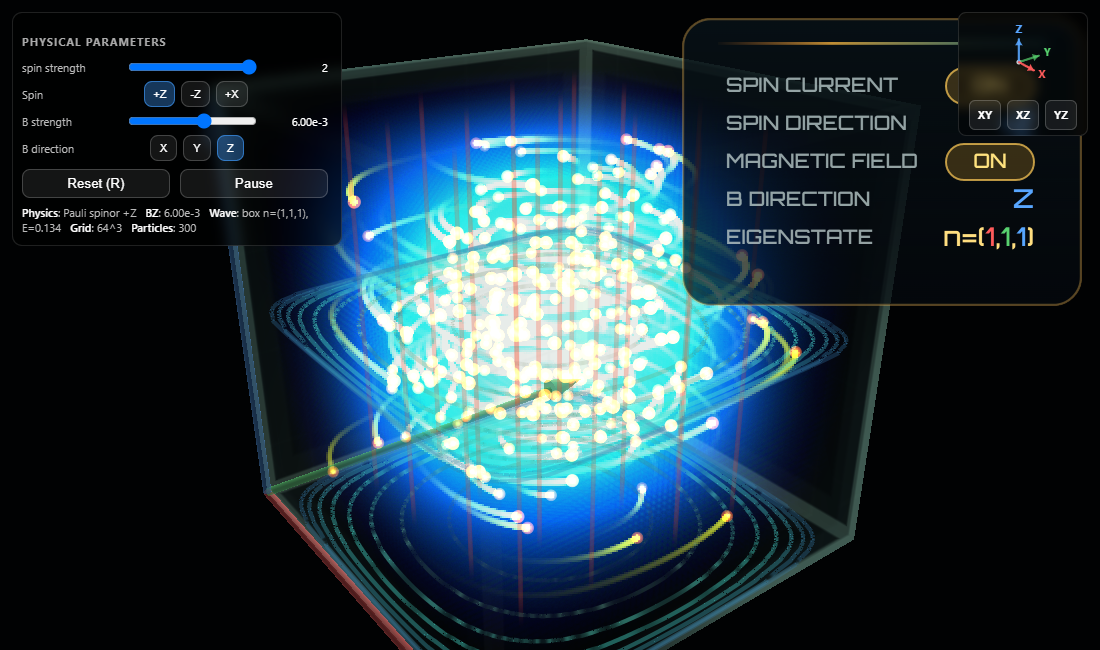
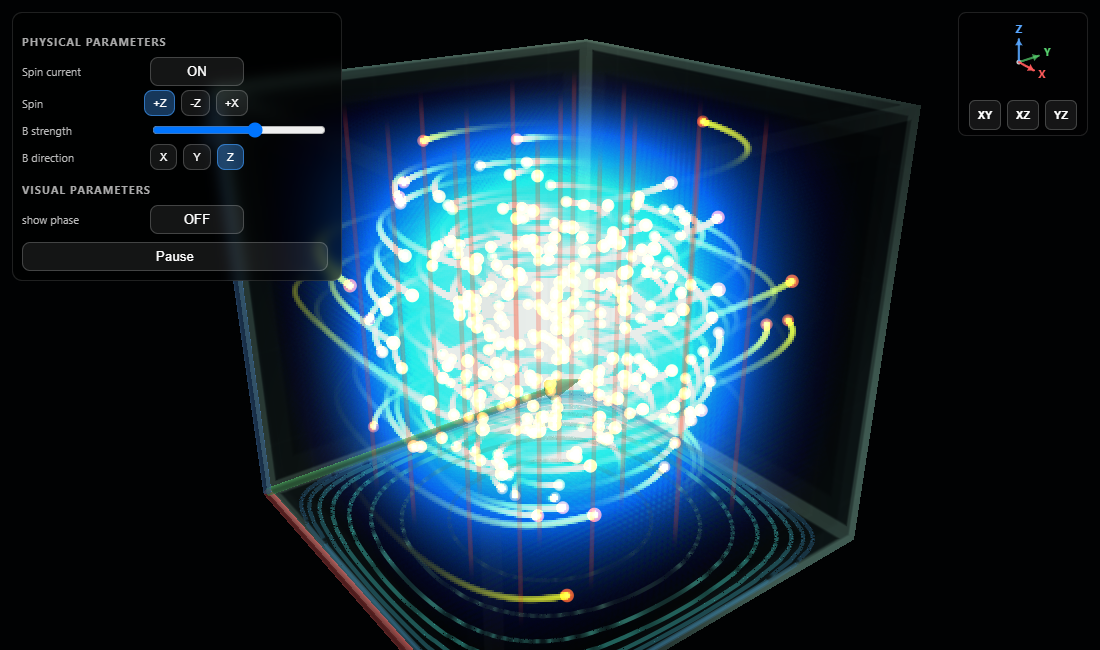
almost ready

diff --git a/eigenstates-in-3d-box/main.js b/eigenstates-in-3d-box/main.js
@@ -54,7 +54,7 @@ const params = {
   mass: 1.0,
   dt: 0.01,
 
-  nParticles: 500,
+  nParticles: 100,
   rhoMin: 1e-6,
   velClamp: 80.0,
   spinS: 2.,
@@ -89,8 +89,6 @@ const params = {
   trailWidth: 14.0,
   trailBlendMode: 2,
   densityScale: 0.5,
-
-  paletteId: 4,
 };
 
 const urlParams = new URLSearchParams(window.location.search);
@@ -105,7 +103,7 @@ const embeddedBasePreset = {
   showParticles: 1,
   showTrail: 1,
   showProjectedContour: 1,
-  showLevelsets: 1,
+  showLevelsets: 0,
   showFieldLines: 0,
 };
 
@@ -118,8 +116,9 @@ const PRESETS = {
       eigenNz: 1,
       bFieldStrength: 0,
       spinS: 2,
+      showTrail: 1,
     },
-    adjustable: ["nParticles", "showCloud", "showParticles", "showTrail"],
+    adjustable: ["spinS", "nParticles","showPhase",],
   },
   excited: {
     params: {
@@ -127,16 +126,14 @@ const PRESETS = {
       eigenNx: 2,
       eigenNy: 1,
       eigenNz: 2,
+      showPhase: 1,
       bFieldStrength: 0,
       spinS: 2,
-      showTrail: 0,
     },
     adjustable: [
+      "spinS",
       "eigenQuantumNumbers",
-      "showCloud",
       "showPhase",
-      "showProjectedContour",
-      "showLevelsets",
     ],
   },
   magnetic: {
@@ -145,13 +142,14 @@ const PRESETS = {
       eigenNx: 1,
       eigenNy: 1,
       eigenNz: 1,
-      bFieldStrength: 0.006,
-      bFieldAxis: 2,
+      bFieldStrength: 0.01,
+      bFieldAxis: 0,
       initialSpin: 0,
       spinS: 2,
+      showPhase: 1,
       showFieldLines: 1,
     },
-    adjustable: ["spinS", "initialSpin", "bFieldStrength", "bFieldAxis"],
+    adjustable: ["spinS", "initialSpin", "bFieldStrength", "bFieldAxis","eigenQuantumNumbers","showPhase",],
   },
 };
 
@@ -162,20 +160,6 @@ if (presetDefinition) Object.assign(params, presetDefinition.params);
 function isControlFixed(key) {
   return Boolean(presetDefinition) && !adjustableControls.has(key);
 }
-
-const PALETTE_NAMES = [
-  "Nebula",
-  "Synthwave",
-  "Viridis-ish",
-  "Inferno-ish",
-  "Ice",
-  "Plasma Drift",
-  "Arctic Aurora",
-  "Solar Flare",
-  "Cosmic Dust",
-  "Neon Noir",
-  "Pastel Mirage"
-];
 
 const GUIDING_MODE_NAMES = [
   "Pauli spinor"
@@ -215,7 +199,7 @@ const INFO_OVERLAY_SCALE = 2;
 const INFO_OVERLAY_TEXTURE_WIDTH = INFO_OVERLAY_WIDTH_CSS * INFO_OVERLAY_SCALE;
 const INFO_OVERLAY_TEXTURE_HEIGHT = INFO_OVERLAY_HEIGHT_CSS * INFO_OVERLAY_SCALE;
 const INFO_OVERLAY_MARGIN_CSS = 18;
-const DRAW_INFO_OVERLAY_IN_WEBGPU = !isEmbedded || window.innerWidth >= 760;
+const DRAW_INFO_OVERLAY_IN_WEBGPU = !isEmbedded;
 
 let paused = false;
 let redrawPending = true;
@@ -283,6 +267,7 @@ function addSlider(key, label, min, max, step, onChange = null) {
   const val = document.createElement("div");
   val.className = "val";
   val.textContent = fmt(params[key]);
+  if (key === "bFieldStrength") val.style.display = "none";
 
   input.addEventListener("input", () => {
     const v = parseFloat(input.value);
@@ -326,6 +311,40 @@ function addToggleInt(key, label, onChange = null) {
   row.appendChild(btn);
   row.appendChild(val);
   controls.appendChild(row);
+}
+
+function addSpinCurrentToggle() {
+  if (isControlFixed("spinS")) return;
+  const row = document.createElement("div");
+  row.className = "row";
+
+  const lab = document.createElement("label");
+  lab.textContent = "Spin current";
+
+  const btn = document.createElement("button");
+  btn.type = "button";
+  btn.style.flex = "1";
+
+  const sync = () => {
+    btn.textContent = params.spinS > 0 ? "ON" : "OFF";
+  };
+
+  btn.addEventListener("click", () => {
+    params.spinS = params.spinS > 0 ? 0 : 2;
+    sync();
+    requestTrailClear();
+    requestRedraw();
+  });
+
+  const val = document.createElement("div");
+  val.className = "val";
+  val.textContent = "";
+
+  row.appendChild(lab);
+  row.appendChild(btn);
+  row.appendChild(val);
+  controls.appendChild(row);
+  sync();
 }
 
 function addToggleButtonGroup(label, entries) {
@@ -508,13 +527,12 @@ function addEigenQuantumPicker(onChange = null) {
 
   const val = document.createElement("div");
   val.className = "val";
-  val.style.width = "92px";
+  val.style.display = "90px";
 
   const sync = () => {
     for (const [key, select] of selects) {
       select.value = String(Math.max(1, Math.min(MAX_EIGEN_QUANTUM_NUMBER, Math.round(params[key]))));
     }
-    val.textContent = `E=${fmt(selectedEigenEnergy())}`;
   };
 
   row.appendChild(lab);
@@ -559,9 +577,9 @@ const cameraProjectionControl = addCycleButton("cameraProjection", "camera view"
 });
 
 addSectionHeader("Physical Parameters");
-addSlider("spinS", "spin strength", 0.0, 2.0, 0.5);
+addSpinCurrentToggle();
 addSegmentedControl("initialSpin", "Spin", INITIAL_SPIN_NAMES, () => resetAll());
-addSlider("bFieldStrength", "B strength", 0.0, 0.01, 0.001);
+addSlider("bFieldStrength", "B strength", 0.0, 0.05, 0.001);
 addSegmentedControl("bFieldAxis", "B direction", B_FIELD_AXIS_NAMES, () => {
   rebuildMagneticFieldLines();
 });
@@ -579,7 +597,7 @@ addToggleInt("showFieldLines", "B streamlines");
 addSlider("cloudGain", "cloud density", 0.005, 0.05, 0.005);
 
 addToggleInt("showParticles", "show particles");
-addSlider("nParticles", "particle count", 1, 5001, 100, () => rebuildParticles());
+addSlider("nParticles", "particle count", 1, 301, 10, () => rebuildParticles());
 
 addSlider("dotSize", "particle size", 2.0, 26.0, 0.5);
 addSlider("dotGain", "particle brightness", 0.1, 5.0, 0.1);
@@ -1166,7 +1184,7 @@ function writeUniforms(buffer, camera, viewportW, viewportH, densityFade = 1.0, 
   uniformData.set([simW, simH, simD, voxelCount], 0);
   uniformData.set([params.hbar, params.mass, stationaryPhase, params.dt], 4);
   uniformData.set([params.cloudGain, params.cloudGamma, params.cloudLowBoost, params.cloudCutoff], 8);
-  uniformData.set([params.cloudPointSize, params.showPhase, params.paletteId | 0, params.boxScale], 12);
+  uniformData.set([params.cloudPointSize, params.showPhase, 0, params.boxScale], 12);
   uniformData.set([params.dotSize, params.dotSigma, params.dotGain, params.spinS], 16);
   uniformData.set([params.rhoMin, params.velClamp, Math.floor(params.nParticles), params.trailWidth], 20);
   uniformData.set([camera.eye[0], camera.eye[1], camera.eye[2], camera.distance], 24);
@@ -1299,7 +1317,7 @@ const cameraTarget = {
   pitch: cameraOrbit.pitch,
   distance: cameraOrbit.distance,
 };
-const CAMERA_EASE = 0.01;
+const CAMERA_EASE = 0.1;
 const ORTHO_VIEWS = {
   XY: { yaw: -Math.PI * 0.5, pitch: Math.PI * 0.5 },
   XZ: { yaw: -Math.PI * 0.5, pitch: 0 },

diff --git a/eigenstates-in-3d-box/index.html b/eigenstates-in-3d-box/index.html
@@ -270,7 +270,7 @@
     <section class="page-hero" aria-labelledby="page-title">
       <p class="kicker">Educational notebook</p>
       <h1 id="page-title">Eigenstates in 3D Box</h1>
-      <p>Explore stationary particle-in-a-box states, nodal surfaces, Pauli spin current, and Bohmian motion inside a hard-walled three-dimensional region.</p>
+      <p>Explore the stationary states, the Pauli spin current, and Bohmian motion.</p>
     </section>
 
     <section class="intro-grid" aria-label="Notebook preview and section navigation">
@@ -282,18 +282,25 @@
         <ul class="note-list">
           <li><a href="#ground-state">Ground state</a></li>
           <li><a href="#excited-state">Excited states and nodes</a></li>
-          <li><a href="#spin-current">Spin current and magnetic field</a></li>
+          <li><a href="#magnetic-field">Spin current and magnetic field</a></li>
           <li><a href="#theory">Theory and equations</a></li>
         </ul>
       </aside>
     </section>
 
     <section class="applet-section" aria-labelledby="ground-state">
-      <h2 id="ground-state">Ground-state density</h2>
+      <h2 id="ground-state">Ground-state</h2>
       <p>
-        The state \(n_x=n_y=n_z=1\) has no interior nodal planes. Its probability density is
-        largest near the center and vanishes on all six hard walls. Adjust the particle count
-        and compare the trajectory ensemble with the glowing density cloud.
+        All the energy eigenstates are stationary states, which means their probability density does not change in time.
+        Let us start with the ground state.
+      </p>
+      <p>
+        The state \(n_x=n_y=n_z=1\) has no interior nodal planes. 
+        The phase of the wave functionis spatially constant, and therefore the scalar guidance current vanishes,
+        making bohmian particles seem to stand still. 
+        However, if we take the spin into account, there will be an extra spin current in the guidance equation,
+        which can produce nontrivial motion even in the ground state. 
+        Switch the spin current on and off in the following demo.
       </p>
       <div class="applet-shell is-inactive">
         <div class="applet-toolbar">Ground state: \(n=(1,1,1)\)</div>
@@ -309,9 +316,11 @@
     <section class="applet-section" aria-labelledby="excited-state">
       <h2 id="excited-state">Excited states and nodes</h2>
       <p>
-        Higher quantum numbers introduce nodal planes where the wave function and probability
-        density vanish. Change \(n_x\), \(n_y\), and \(n_z\) to see how each quantum number
-        controls the number of lobes along its corresponding axis.
+        Higher quantum numbers introduce nodal cells. The phase is still spatially constant within each nodal cell.
+        Therefore the phase dependent guidance current vanishes everywhere, and the Bohmian particles again appear to be at rest.
+        But as before, the density gradients will induce spin current which has the effect of driving the bohmian particles around 
+        density level curves. Each particle remains confined to a single nodal cell, 
+        as the spin current can only circulate them along the density curves.
       </p>
       <div class="applet-shell is-inactive">
         <div class="applet-toolbar">Excited eigenstates and nodal structure</div>
@@ -321,15 +330,19 @@
           <button class="applet-play" type="button" aria-label="Play excited-state simulation">Play</button>
         </div>
       </div>
-      <p class="caption">Floor contours and internal level sets help expose the density's nodal geometry.</p>
+      <p class="caption">Spin current which has the effect of driving the bohmian particles around 
+        density level curves.</p>
     </section>
 
-    <section class="applet-section" aria-labelledby="spin-current">
-      <h2 id="spin-current">Pauli spin current</h2>
+    <section class="applet-section" aria-labelledby="magnetic-field">
+      <h2 id="magnetic-field">Magnetic field</h2>
       <p>
-        For a Pauli spinor, the Bohmian guidance current contains a spin-dependent curl term.
-        This can produce motion even when the scalar spatial eigenfunction is real. Use the
-        controls to compare spin directions and add a uniform magnetic field.
+        We can also apply a uniform magnetic field. The field is indicated by red lines. 
+        As is well known, a magnetic field is represented through a vector potential,
+         which enters the kinetic term of the Pauli equation through minimal coupling. 
+         The magnetic field also couples directly to the particle’s spin. 
+        In Bohmian mechanics, the vector potential contributes an additional term to the particle’s guidance law.
+        Visually it can create a visual precession of the spin orbits.
       </p>
       <div class="applet-shell is-inactive">
         <div class="applet-toolbar">Spin current and uniform magnetic field</div>

diff --git a/eigenstates-in-3d-box/shaders.js b/eigenstates-in-3d-box/shaders.js
@@ -1,6 +1,5 @@
 const SHADER_FILES = {
   UNIFORMS_WGSL: "shaders/uniforms.wgsl",
-  PALETTE_WGSL: "shaders/palette.wgsl",
   WAVE_INIT_BODY: "shaders/wave-init.wgsl",
   WAVE_STEP_BODY: "shaders/wave-step.wgsl",
   PARTICLE_UPDATE_BODY: "shaders/particle-update.wgsl",
@@ -38,13 +37,11 @@ export async function createShaderSources({ WAVE_WORKGROUP_SIZE, PARTICLE_WORKGR
 
   const withDefines = (source, extraDefines = {}) => applyShaderDefines(source, { ...defines, ...extraDefines });
   const withUniforms = (source, extraDefines = {}) => sources.UNIFORMS_WGSL + withDefines(source, extraDefines);
-  const withUniformsAndPalette = source => sources.UNIFORMS_WGSL + sources.PALETTE_WGSL + withDefines(source);
-
   return {
     WAVE_INIT_WGSL: withUniforms(sources.WAVE_INIT_BODY),
     WAVE_STEP_WGSL: withUniforms(sources.WAVE_STEP_BODY),
     PARTICLE_UPDATE_WGSL: withUniforms(sources.PARTICLE_UPDATE_BODY),
-    CLOUD_WGSL: withUniformsAndPalette(sources.CLOUD_BODY),
+    CLOUD_WGSL: withUniforms(sources.CLOUD_BODY),
     PARTICLE_RENDER_WGSL: withUniforms(sources.PARTICLE_RENDER_BODY),
     DENSITY_WGSL: withUniforms(sources.DENSITY_BODY),
     BOX_SHELL_WGSL: withUniforms(sources.BOX_SHELL_BODY),

diff --git a/eigenstates-in-3d-box/full-applet.html b/eigenstates-in-3d-box/full-applet.html
@@ -48,6 +48,7 @@
     .row.mode-row .toggle-group button { min-width:0; white-space:normal; line-height:1.15; }
     .stat { margin-top:8px; font-size:12px; color:#bbb; line-height:1.35; }
     .stat b { color:#fff; font-weight:600; }
+    #stats { display:none; }
     #viewtools {
       position:absolute; left:382px; top:12px; width:118px;
       display:flex; flex-direction:column; align-items:center; gap:6px;
@@ -127,7 +128,8 @@
       #explain { width:34vw; min-width:240px; }
     }
     html.is-embedded #explain,
-    html.is-embedded .applet-ui-header {
+    html.is-embedded .applet-ui-header,
+    html.is-embedded #reset {
       display:none !important;
     }
     html.is-embedded #ui {